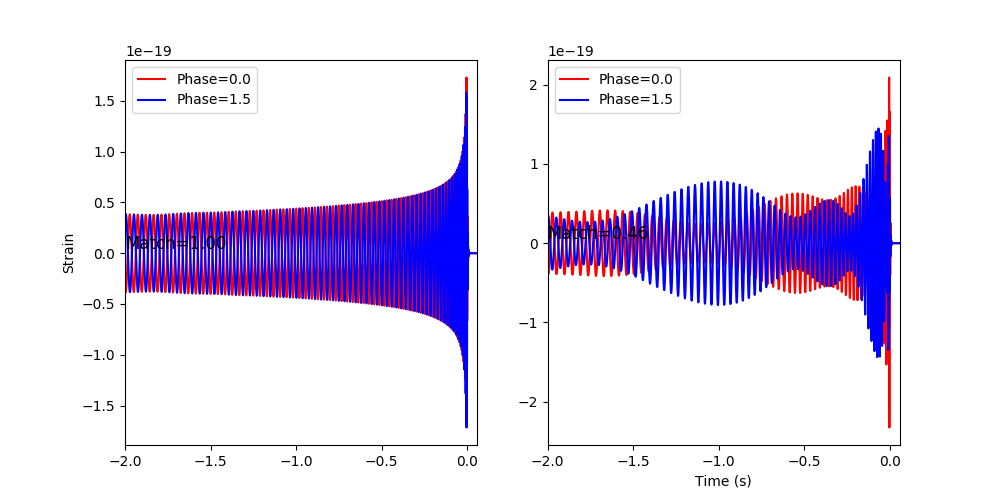
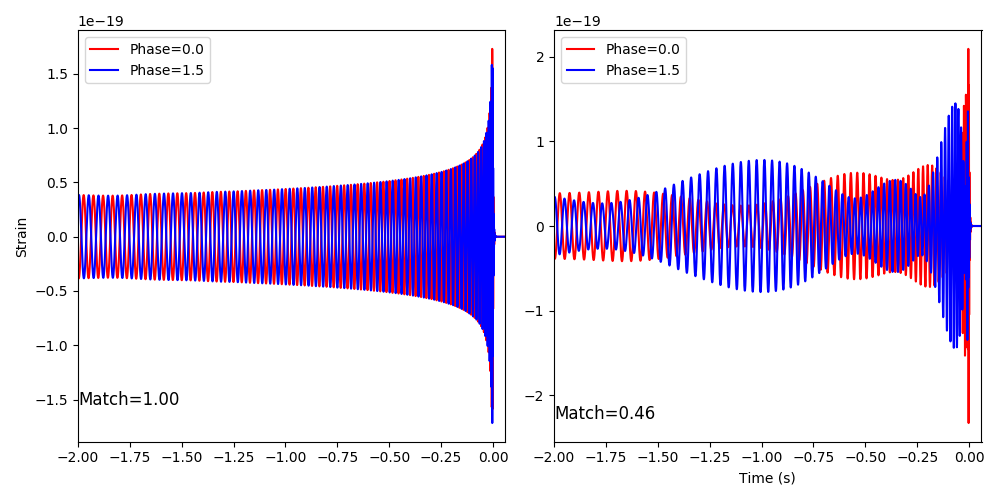
Phase plots

diff --git a/Report/phasePlots.py b/Report/phasePlots.py
@@ -80,7 +80,7 @@ plt.subplot(1,2,1)
 plt.plot(hp.sample_times, h,'r-', label="Phase=0.0")
 plt.plot(sp.sample_times, s,'b-', label="Phase=1.5")
 plt.ylabel('Strain')
-plt.text(lowlim, 0, 'Match=%.2f' % m1, ha='left', va='bottom', fontsize=12)
+plt.text(lowlim, min(h), 'Match=%.2f' % m1, ha='left', va='bottom', fontsize=12)
 plt.xlim(lowlim,hp.sample_times[-1])
 plt.legend(loc="best")
 plt.ylabel('Strain')
@@ -90,8 +90,9 @@ plt.subplot(1,2,2)
 plt.plot(gp.sample_times, g,'r-', label="Phase=0.0")
 plt.plot(pp.sample_times, p,'b-', label="Phase=1.5")
 plt.xlabel('Time (s)')
-plt.text(lowlim, 0, 'Match=%.2f' % m2, ha='left', va='bottom', fontsize=12)
+plt.text(lowlim, min(g), 'Match=%.2f' % m2, ha='left', va='bottom', fontsize=12)
 plt.legend(loc="best")
 plt.xlim(lowlim,hp.sample_times[-1])
+plt.tight_layout()
 plt.show("hold")
 plt.savefig("phasefig.png")
